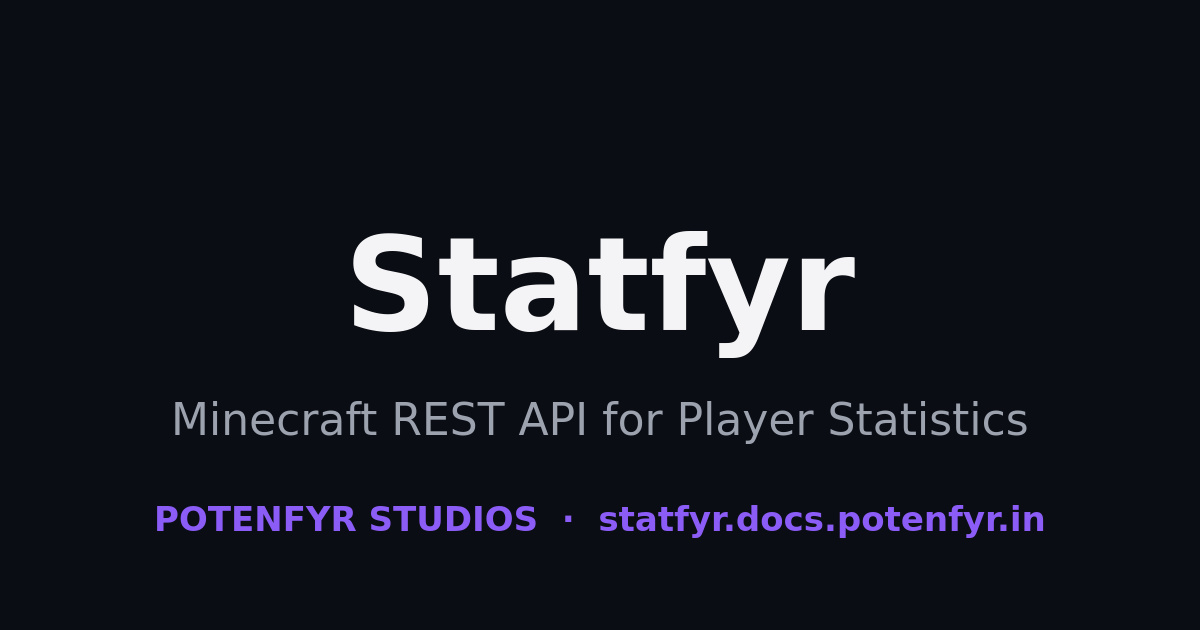
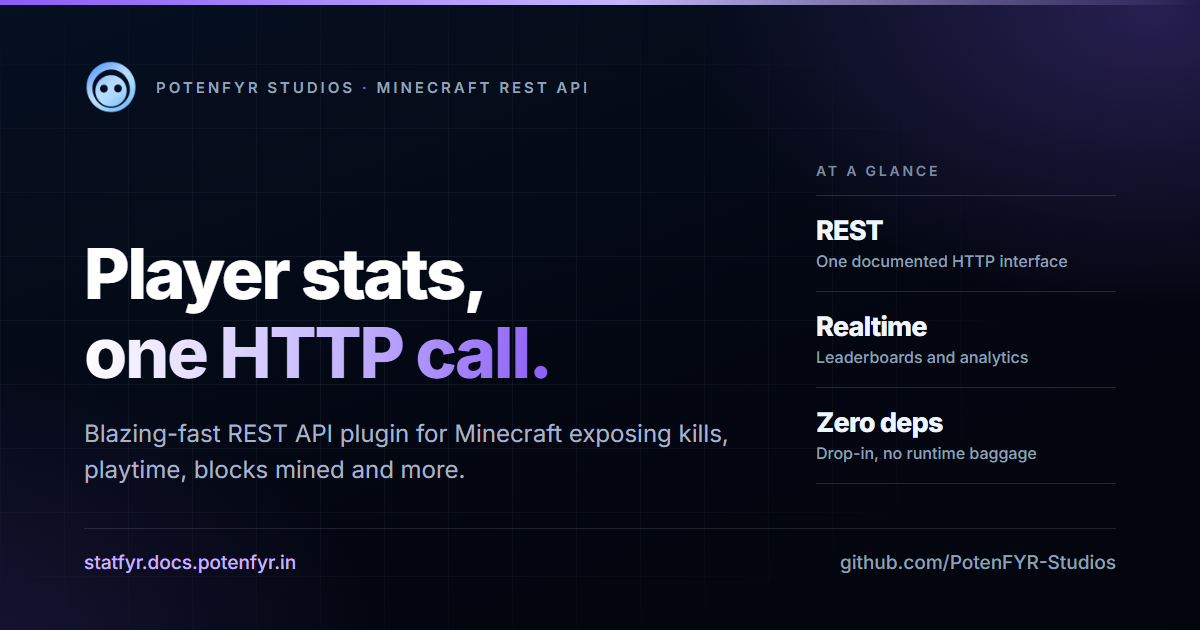
feat(docs): redesigned OG card rendered from a committed script

diff --git a/docs/scripts/og/card.html b/docs/scripts/og/card.html
@@ -1,0 +1,199 @@
+<!doctype html>
+<html lang="en">
+  <head>
+    <meta charset="utf-8" />
+    <title>statfyr link preview</title>
+    <!--
+      Shared template for PotenFYR Studios project OG cards.
+      Edit only the CONFIG block below; the layout stays identical across the org
+      so every project's link preview reads as one family.
+      Render with: bun run og:image  (scripts/og/build-og.mjs)
+    -->
+    <link rel="preconnect" href="https://fonts.googleapis.com" />
+    <link rel="preconnect" href="https://fonts.gstatic.com" crossorigin />
+    <link
+      href="https://fonts.googleapis.com/css2?family=Inter:wght@400;500;600;700;800&display=swap"
+      rel="stylesheet"
+    />
+    <style>
+      /* ---------------- CONFIG ---------------- */
+      :root {
+        --accent: #8b5cf6;         /* project accent, matches the docs site */
+        --accent-soft: #c4b5fd;    /* lighter tint of --accent */
+      }
+      /* ---------------- /CONFIG --------------- */
+
+      * { box-sizing: border-box; margin: 0; padding: 0; }
+      html, body { width: 1200px; height: 630px; overflow: hidden; }
+      body {
+        font-family: 'Inter', 'Segoe UI', system-ui, sans-serif;
+        background: #030712;
+        color: #fff;
+        -webkit-font-smoothing: antialiased;
+      }
+
+      .card {
+        position: relative;
+        width: 1200px;
+        height: 630px;
+        padding: 60px 84px 56px;
+        display: flex;
+        flex-direction: column;
+        background:
+          radial-gradient(720px 460px at 96% 2%, color-mix(in srgb, var(--accent) 26%, transparent), transparent 64%),
+          radial-gradient(700px 500px at -4% 106%, color-mix(in srgb, var(--accent) 16%, transparent), transparent 62%),
+          linear-gradient(160deg, #061021 0%, #030712 54%, #03050d 100%);
+        overflow: hidden;
+      }
+
+      .grid {
+        position: absolute;
+        inset: 0;
+        background-image:
+          linear-gradient(to right, rgba(148, 163, 184, 0.10) 1px, transparent 1px),
+          linear-gradient(to bottom, rgba(148, 163, 184, 0.10) 1px, transparent 1px);
+        background-size: 64px 64px;
+        -webkit-mask-image: radial-gradient(780px 430px at 32% 50%, #000 0%, rgba(0, 0, 0, 0.5) 60%, transparent 88%);
+        mask-image: radial-gradient(780px 430px at 32% 50%, #000 0%, rgba(0, 0, 0, 0.5) 60%, transparent 88%);
+      }
+
+      .edge {
+        position: absolute;
+        top: 0; left: 0; right: 0;
+        height: 5px;
+        background: linear-gradient(90deg, var(--accent) 0%, var(--accent-soft) 52%, transparent 100%);
+      }
+
+      .content { position: relative; z-index: 2; display: flex; flex-direction: column; height: 100%; }
+
+      .lockup { display: flex; align-items: center; gap: 18px; }
+      .lockup img { width: 54px; height: 54px; display: block; }
+      .lockup .studio {
+        font-size: 15px;
+        font-weight: 600;
+        letter-spacing: 0.2em;
+        text-transform: uppercase;
+        color: #94a3b8;
+      }
+      .lockup .studio em { font-style: normal; color: var(--accent); }
+
+      .body {
+        margin-top: auto;
+        display: flex;
+        align-items: flex-end;
+        justify-content: space-between;
+        gap: 54px;
+      }
+      .copy { max-width: 720px; }
+
+      h1 {
+        font-size: 70px;
+        line-height: 1.12;
+        font-weight: 800;
+        letter-spacing: -0.035em;
+      }
+      h1 .grad {
+        background: linear-gradient(96deg, #ffffff 0%, var(--accent-soft) 55%, var(--accent) 100%);
+        -webkit-background-clip: text;
+        background-clip: text;
+        -webkit-text-fill-color: transparent;
+      }
+
+      p.lede {
+        margin-top: 24px;
+        font-size: 24px;
+        line-height: 1.5;
+        color: #a8b4c6;
+      }
+
+      .facts { display: flex; flex-direction: column; min-width: 300px; padding-bottom: 4px; }
+      .facts .eyebrow {
+        font-size: 14px;
+        font-weight: 600;
+        letter-spacing: 0.2em;
+        text-transform: uppercase;
+        color: #7c8ba1;
+        padding-bottom: 16px;
+      }
+      .fact {
+        border-top: 1px solid rgba(148, 163, 184, 0.22);
+        padding: 18px 0 20px;
+      }
+      .fact.last { border-bottom: 1px solid rgba(148, 163, 184, 0.22); }
+      .fact b {
+        display: block;
+        font-size: 27px;
+        font-weight: 800;
+        letter-spacing: -0.03em;
+        color: #eef6ff;
+      }
+      .fact span {
+        display: block;
+        margin-top: 4px;
+        font-size: 16px;
+        font-weight: 500;
+        color: #8fa0b6;
+      }
+
+      .foot {
+        margin-top: 40px;
+        display: flex;
+        align-items: center;
+        justify-content: space-between;
+        border-top: 1px solid rgba(148, 163, 184, 0.18);
+        padding-top: 22px;
+        font-size: 19px;
+        font-weight: 500;
+      }
+      .foot .domain { color: var(--accent-soft); }
+      .foot .org { color: #8fa0b6; }
+    </style>
+  </head>
+  <body>
+    <div class="card">
+      <div class="grid"></div>
+      <div class="edge"></div>
+
+      <div class="content">
+        <div class="lockup">
+          <img src="../../public/favicon.png" alt="" />
+          <div class="studio">PotenFYR Studios <em>·</em> Minecraft REST API</div>
+        </div>
+
+        <div class="body">
+          <div class="copy">
+            <h1>
+              Player stats,<br />
+              <span class="grad">one HTTP call.</span>
+            </h1>
+            <p class="lede">
+              Blazing-fast REST API plugin for Minecraft exposing kills,<br />
+              playtime, blocks mined and more.
+            </p>
+          </div>
+
+          <div class="facts">
+            <div class="eyebrow">At a glance</div>
+            <div class="fact">
+              <b>REST</b>
+              <span>One documented HTTP interface</span>
+            </div>
+            <div class="fact">
+              <b>Realtime</b>
+              <span>Leaderboards and analytics</span>
+            </div>
+            <div class="fact last">
+              <b>Zero deps</b>
+              <span>Drop-in, no runtime baggage</span>
+            </div>
+          </div>
+        </div>
+
+        <div class="foot">
+          <div class="domain">statfyr.docs.potenfyr.in</div>
+          <div class="org">github.com/PotenFYR-Studios</div>
+        </div>
+      </div>
+    </div>
+  </body>
+</html>
